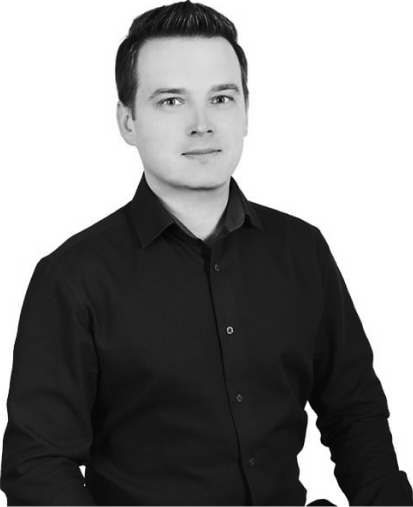
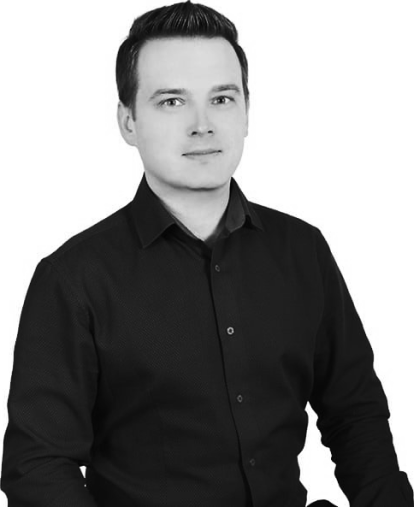
mobile-photo-test

diff --git a/contacts.html b/contacts.html
@@ -38,27 +38,18 @@
     </p>
 </section>
 <section class="s2">
-    <figure>
-        <img srcset="./img/contact/dmitriymobile.png 10w,
-             ./img/contact/dmitriydesktop.png 20w"
-             sizes="(max-width: 1069px) 280px,
-            (min-width: 1070px) 500px,
-            800px"
-             src="./img/contact/dmitriymobile.png" alt="Алексей">
+    <figure class="command">
+        <img class="hidedesktop contact-img" src="./img/contact/dmitriymobile.png" alt="Алексей">
+        <img class="mobillehide contact-img" src="./img/contact/dmitriydesktop.png" alt="Алексей">
         <figcaption>
             <h2 class="agh3mob fontwhite">Алексей</h2>
             <p class="agtext fontwhite">Менеджер проектов</p>
             <p class="agtext fontwhite">privet@gk-turan.ru</p>
         </figcaption>
     </figure>
-    <figure>
-        <img srcset="img/contact/dmitriymobile.png 320w,
-             img/contact/dmitriydesktop.png 480w,
-             img/contact/dmitriymobile.png 800w"
-             sizes="(max-width: 320px) 280px,
-            (max-width: 480px) 440px,
-            800px"
-             src="img/contact/dmitriymobile.png" alt="Дмитрий">
+    <figure class="command">
+        <img class="hidedesktop contact-img" src="./img/contact/dmitriymobile.png" alt="Алексей">
+        <img class="mobillehide contact-img" src="./img/contact/dmitriydesktop.png" alt="Алексей">
         <figcaption>
             <h2 class="agh3mob fontwhite">Дмитрий</h2>
             <p class="agtext fontwhite">Директор по развитию</p>
@@ -66,14 +57,9 @@
             <p class="agtext fontwhite">dfedorchenko@gk-turan.ru</p>
         </figcaption>
     </figure>
-    <figure>
-        <img srcset="img/contact/dmitriymobile.png 320w,
-             img/contact/dmitriymobile.png 480w,
-             img/contact/dmitriymobile.png 800w"
-             sizes="(max-width: 320px) 280px,
-            (max-width: 480px) 440px,
-            800px"
-             src="img/contact/dmitriymobile.png" alt="Ольга">
+    <figure class="command">
+        <img class="hidedesktop contact-img" src="./img/contact/dmitriymobile.png" alt="Алексей">
+        <img class="mobillehide contact-img" src="./img/contact/dmitriydesktop.png" alt="Алексей">
         <figcaption>
             <h2 class="agh3mob fontwhite">Ольга</h2>
             <p class="agtext fontwhite">Главный бухгалтер</p>

diff --git a/css/main.css b/css/main.css
@@ -623,9 +623,10 @@ li {
     }
 
     /*.vacancies*/
-    .formh1-vacancies{
+    .formh1-vacancies {
         margin: 90px auto 50px;
     }
+
     .uperlinedesktop::after {
         top: -18px;
     }
@@ -635,6 +636,16 @@ li {
     }
 
     /*.vacancies*/
+    /*contacts*/
+    .command{
+        margin: 0 auto;
+    }
+    .contact-img {
+        width: 288px;
+        height: 235px;
+    }
+
+    /*contacts*/
 }
 
 /*.sphere*/
@@ -969,6 +980,16 @@ li {
     .footer__p6 {
         margin-right: 1%;
     }
+    /*contacts*/
+    .command{
+        margin: 0 auto;
+    }
+    .contact-img {
+        width: 427px;
+        height: 508px;
+    }
+
+    /*contacts*/
 }
 
 .centertext {
